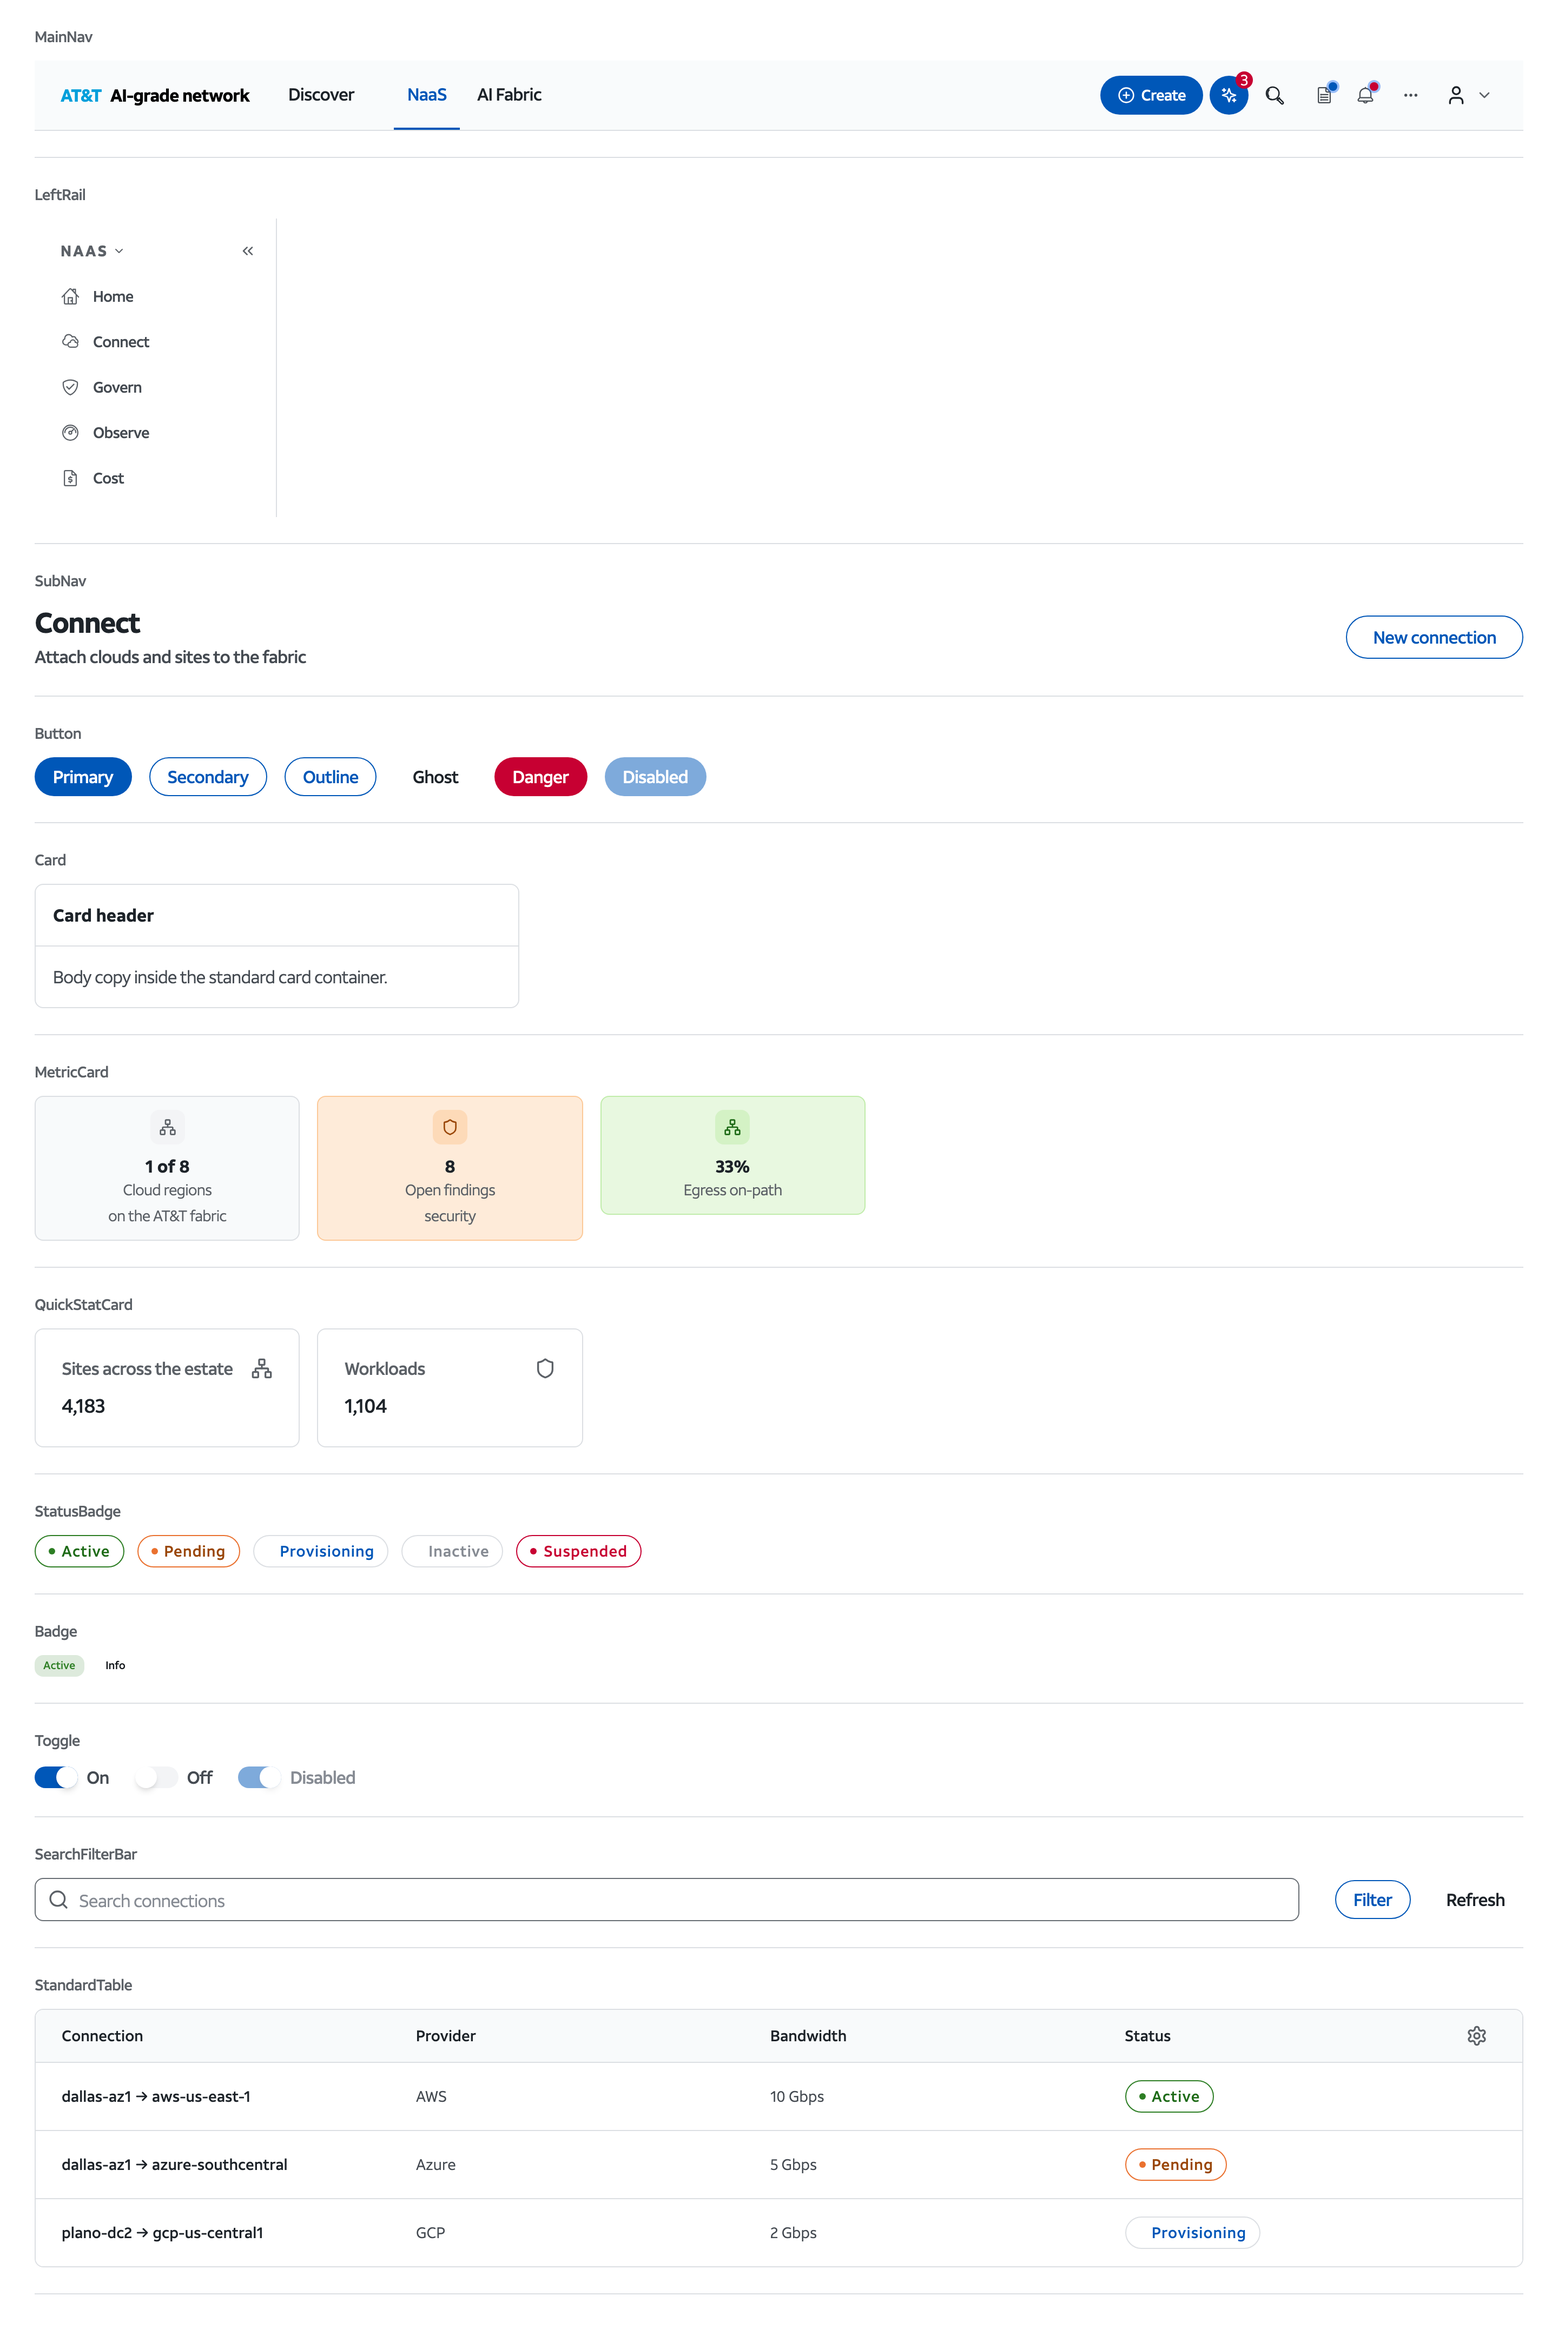
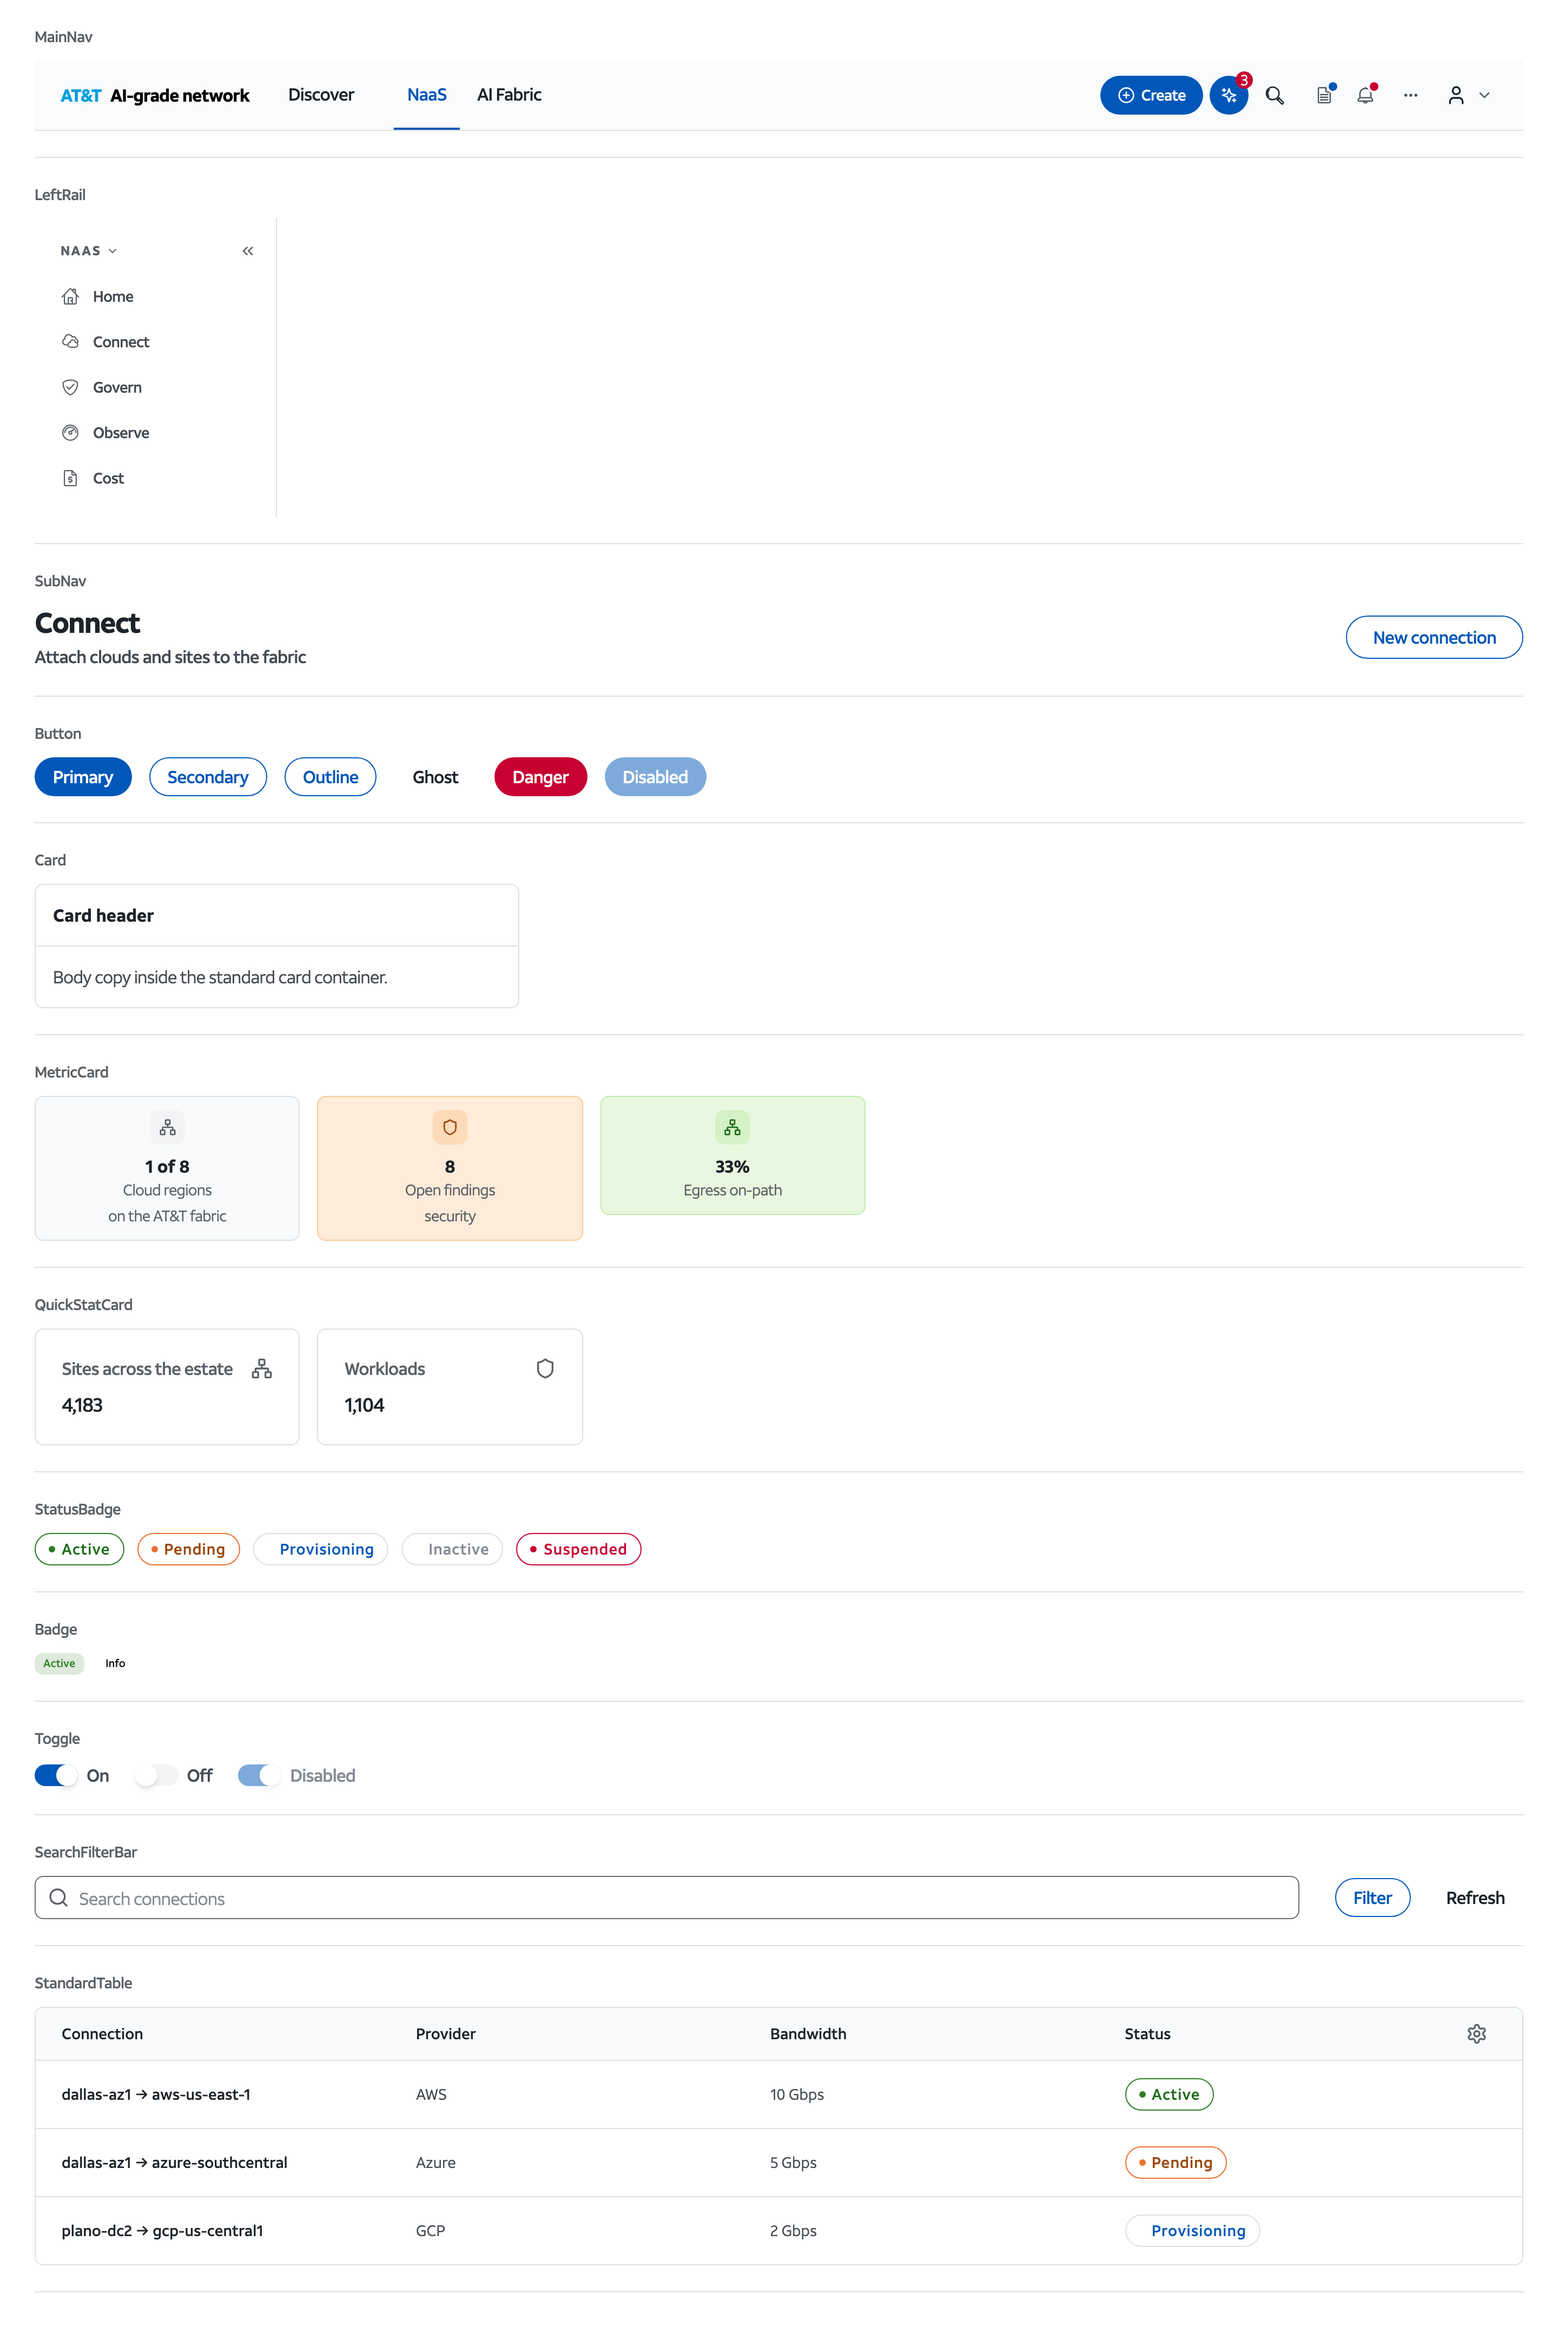
fix(handoff): primitive drift — QuickStat on system type, nav dot ring color

diff --git a/src/components/navigation/LeftRail.tsx b/src/components/navigation/LeftRail.tsx
@@ -37,7 +37,7 @@ function LayerSwitcher({ layer }: { layer: NavLayer }) {
         aria-haspopup="menu"
         aria-expanded={open}
         onClick={() => setOpen(o => !o)}
-        className="flex items-center gap-1 pl-3 pr-1 h-7 rounded-lg text-figma-sm font-semibold uppercase tracking-[0.1em] text-fw-bodyLight hover:bg-fw-wash hover:text-fw-body transition-colors max-w-full"
+        className="flex items-center gap-1 pl-3 pr-1 h-7 rounded-lg text-figma-xs font-semibold uppercase tracking-[0.1em] text-fw-bodyLight hover:bg-fw-wash hover:text-fw-body transition-colors max-w-full"
       >
         <span className="truncate">{layer.label}</span>
         <ChevronDown className={`h-3 w-3 flex-shrink-0 transition-transform ${open ? 'rotate-180' : ''}`} aria-hidden="true" />
@@ -61,7 +61,7 @@ function LayerSwitcher({ layer }: { layer: NavLayer }) {
                 <span className={`block text-figma-sm font-medium tracking-[-0.02em] ${l.key === layer.key ? 'text-fw-link' : 'text-fw-heading'}`}>
                   {l.label}
                 </span>
-                <span className="block text-figma-sm text-fw-bodyLight">{l.tagline}</span>
+                <span className="block text-figma-xs text-fw-bodyLight">{l.tagline}</span>
               </span>
               {l.key === layer.key && <Check className="h-4 w-4 flex-shrink-0 mt-0.5 text-fw-link" aria-hidden="true" />}
             </Link>
@@ -128,7 +128,7 @@ export function LeftRail() {
       {railSectionsFor(layer).map((section, si) => (
         <div key={section.title ?? si} className="w-full">
           {section.title && !collapsed && (
-            <p className="px-3 pt-4 pb-1 text-figma-sm font-semibold uppercase tracking-[0.1em] text-fw-bodyLight">
+            <p className="px-3 pt-4 pb-1 text-figma-xs font-semibold uppercase tracking-[0.1em] text-fw-bodyLight">
               {section.title}
             </p>
           )}

diff --git a/src/components/common/QuickStatCard.tsx b/src/components/common/QuickStatCard.tsx
@@ -22,7 +22,7 @@ export function QuickStatCard({ title, value, icon: Icon, variant = 'default' }:
         <h3 className="text-figma-base font-medium text-fw-bodyLight">{title}</h3>
         <Icon className={`h-5 w-5 ${variantColors[variant]}`} />
       </div>
-      <p className="text-lg font-medium text-fw-heading">{value}</p>
+      <p className="text-figma-lg font-medium text-fw-heading">{value}</p>
     </div>
   );
 }

diff --git a/tailwind.config.js b/tailwind.config.js
@@ -176,6 +176,7 @@ export default {
          say. */
       ringColor: {
         'fw-active': '#0074b3',    // Functional Blue — the focus ring
+        'fw-base': '#ffffff',      // white cutout ring (nav dots) — was silently stock blue
         'fw-link': '#0057b8',      // Cobalt 600
         'fw-ctaPrimary': '#0057b8',
         'fw-error': '#c70032',

diff --git a/docs/figma-handoff/00-foundation.md b/docs/figma-handoff/00-foundation.md
@@ -101,18 +101,29 @@ Mono: JetBrains Mono stack.
 | tagS | 12 / 16 | 500 | +4% |
 | tagXS | 10 / 16 | 500 | +4% |
 
-Figma-era Tailwind aliases still in the code: `text-figma-xs` 10px,
-`text-figma-sm` 12px, `text-figma-base` 14px, `text-figma-lg` 16px,
-`text-figma-xl` **26px/34** (the config deliberately sits 2px above the
-ramp's h5 24px/32 — divergence logged in the drift report, kept as-is). Common combinations (from DESIGN_SPECS.md, still
-canonical):
+**The rendered scale is the token ramp +2px on every step** — a deliberate
+demo-legibility bump baked into tailwind.config.js's `figma-*` sizes. The
+artboards mirror the app, so redlines measure the RENDERED (+2) values:
+
+| Alias | Renders | Ramp role |
+|---|---|---|
+| `text-figma-xs` | 12 / 18 | bodyXS |
+| `text-figma-sm` | 14 / 20 | bodyS |
+| `text-figma-base` | 16 / 24 | bodyBase |
+| `text-figma-lg` | 18 / 26 | h6 |
+| `text-figma-xl` | 26 / 34 | h5 |
+| `text-figma-2xl` | 34 / 42 | h4 |
+| `text-tag-sm` | 14 / 20, +4% | tagS |
+| `text-tag-xs` | 12 / 18, +4% | tagXS |
+
+Common combinations at rendered sizes:
 
 - Page title: 26px / 700 / `#1d2329` (`text-figma-xl`)
-- Section heading: 16px / 700 / `#1d2329`
-- Body: 14px / 500 / `#454b52`
-- Labels/captions: 12px / 500 / `#686e74`
+- Section heading: 18px / 700 / `#1d2329` (`text-figma-lg`)
+- Body: 16px / 500 / `#454b52` (`text-figma-base`)
+- Labels/captions: 14px / 500 (`text-figma-sm`)
 - Stat values: 26px / 700 / `#1d2329` (`text-figma-xl`)
-- Tiny/hint: 10px / 500 / `#878c94`
+- Tiny/hint: 12px / 500 (`text-figma-xs`)
 
 ---
 

diff --git a/docs/figma-handoff/drift-report.md b/docs/figma-handoff/drift-report.md
@@ -94,16 +94,19 @@ Every artboard gets a section. "Fixed" lists what was corrected and where;
 ### Fixed
 
 - LeftRail: `text-[11px]` (layer-switcher label, taglines, section headers)
-  → `text-figma-sm` (12px, tagS ramp step). 3 occurrences.
+  → `text-figma-xs` (12px rendered, the tiny-label step). 3 occurrences.
 - CreateMenu (MainNav Create pill): `px-3.5` (14px, off-grid) → `px-4` (16px).
+- QuickStatCard value: stock `text-lg` (18/28, no tracking) →
+  `text-figma-lg` (18/26, -3%) — same size, on-system leading/tracking.
+- tailwind ringColor: added `fw-base: #ffffff` — `ring-fw-base` on the nav
+  notification/tasks dots compiled to nothing and fell back to Tailwind's
+  stock translucent blue; the dots now get their intended white cutout.
 
 ### Skipped (logged)
 
-- `text-figma-xl` is 26px/34 in tailwind.config.js while tokens.json h5 and
-  the SDCI-era DESIGN_SPECS say 24px/32. Global type-scale divergence — every
-  page title and stat uses it, so flipping it is an app-wide visual change,
-  not a per-screen cleanup. Needs Micah's call; foundation doc records 26px
-  as current reality.
+- The entire `figma-*` scale renders +2px over the token ramp — a deliberate
+  demo-legibility bump documented in tailwind.config.js. Not drift; the
+  foundation spec documents the rendered scale and redlines measure it.
 - `#5c6167` / `#1e6b17` / `#9a4708` text colors are NOT drift: deliberate
   WCAG AA darkenings in the fw theme (documented in tailwind.config.js).
   Foundation doc updated with an accessibility-overrides table.
